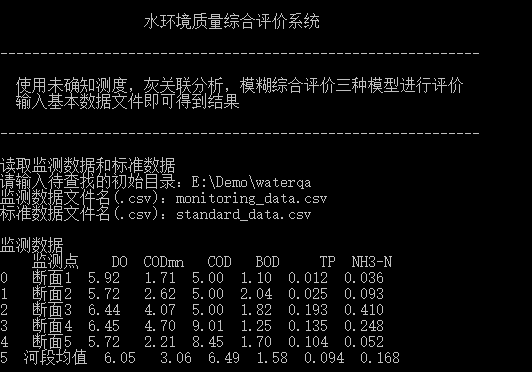
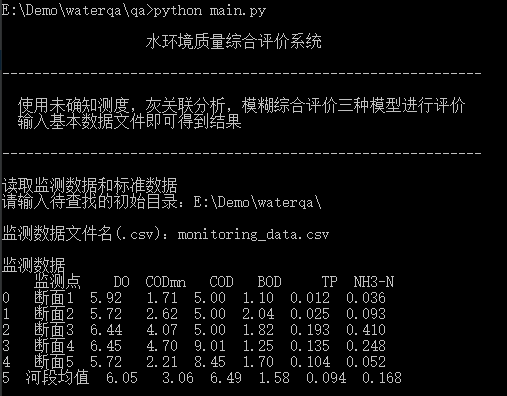
Update

Changed region(s): [[0.0, 0.0, 0.9467, 1.0], [0.6213, 0.5914, 0.6509, 0.621]]

diff --git a/README.md b/README.md
@@ -1,8 +1,11 @@
 # waterqa
-使用未确知测度，灰关联分析，模糊综合评价三种方法对一组水环境数据进行综合评价
+使用未确知测度，灰关联分析，模糊综合评价三种常见评价模型对一组水环境数据进行综合评价
 
-python环境下运行main.py文件，输入监测数据和评价指标的.csv文件即可得到结果
+使用了python库numpy, pandas处理数据和matplotlib作出指标浓度示意图
+
+进入到qa文件夹下并在python环境下运行main.py文件，首先输入数据文件的根目录，再输入监测数据和评价指标数据的.csv文件即可得到评价结果
 
 ![](imgs/1.png)
 ![](imgs/2.png)
+![](imgs/show.png)
 
